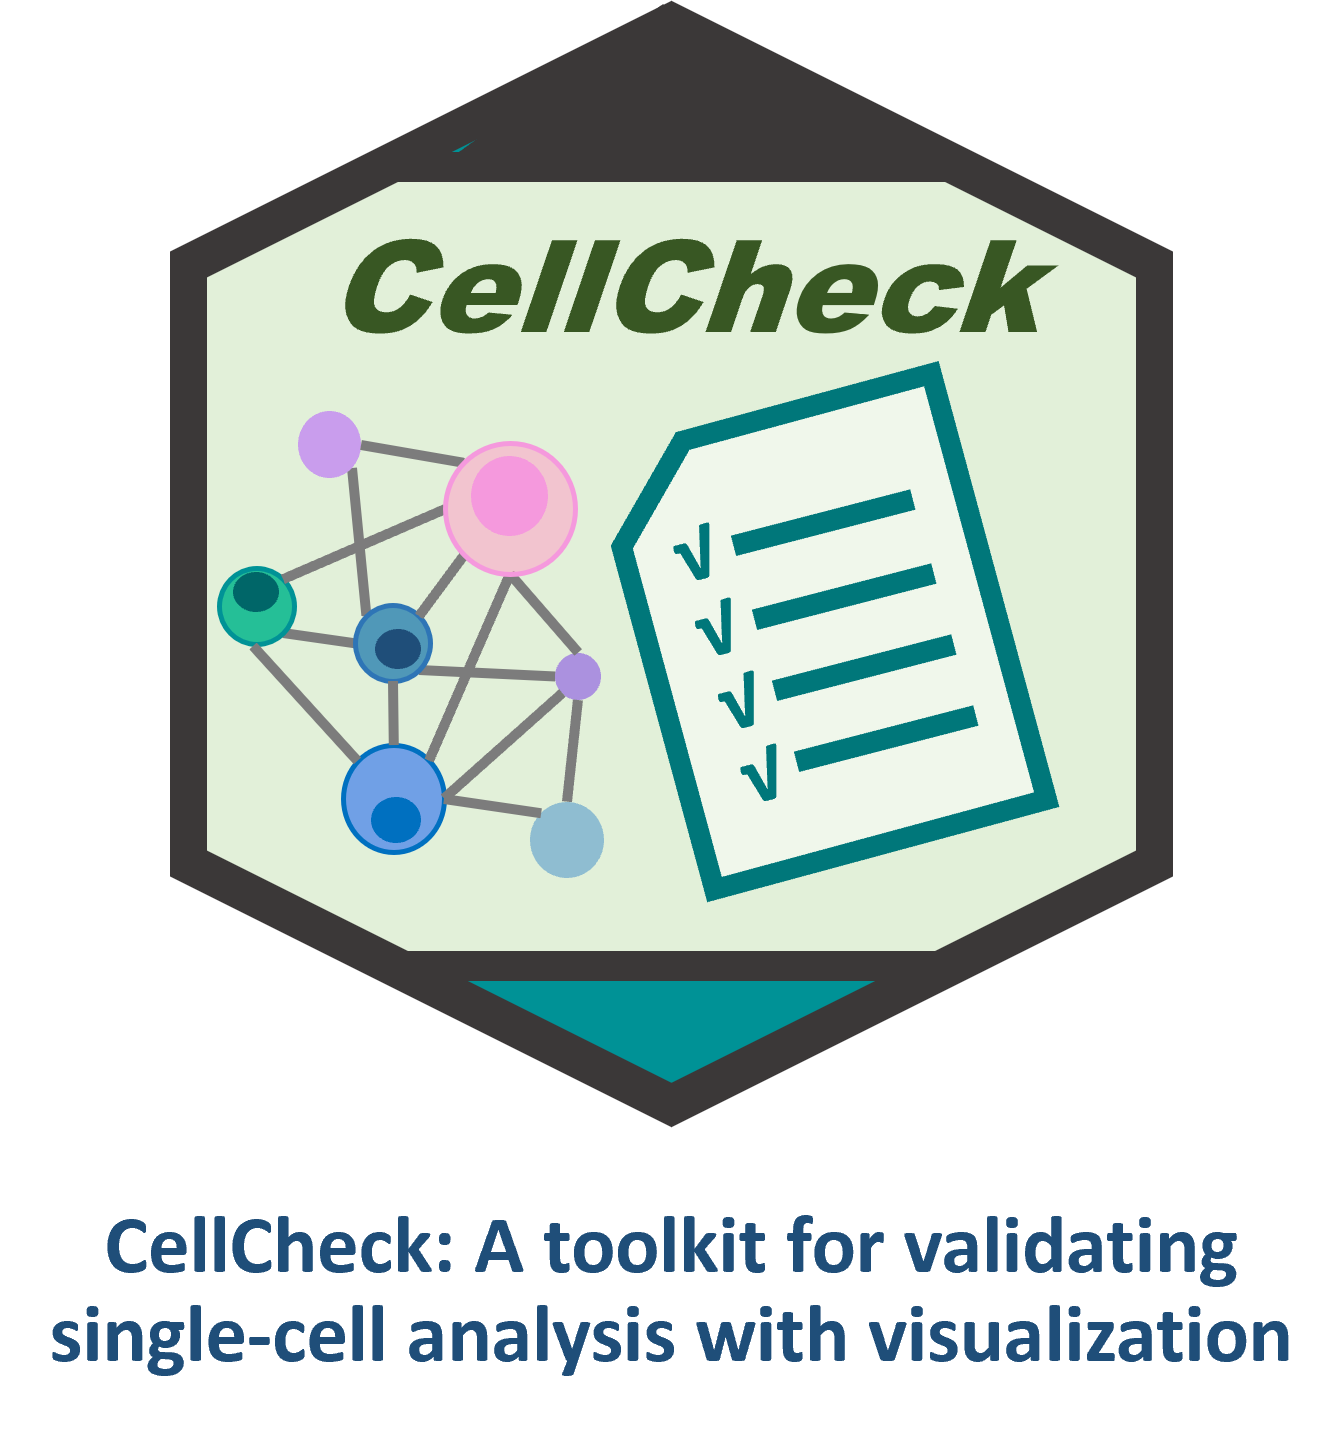
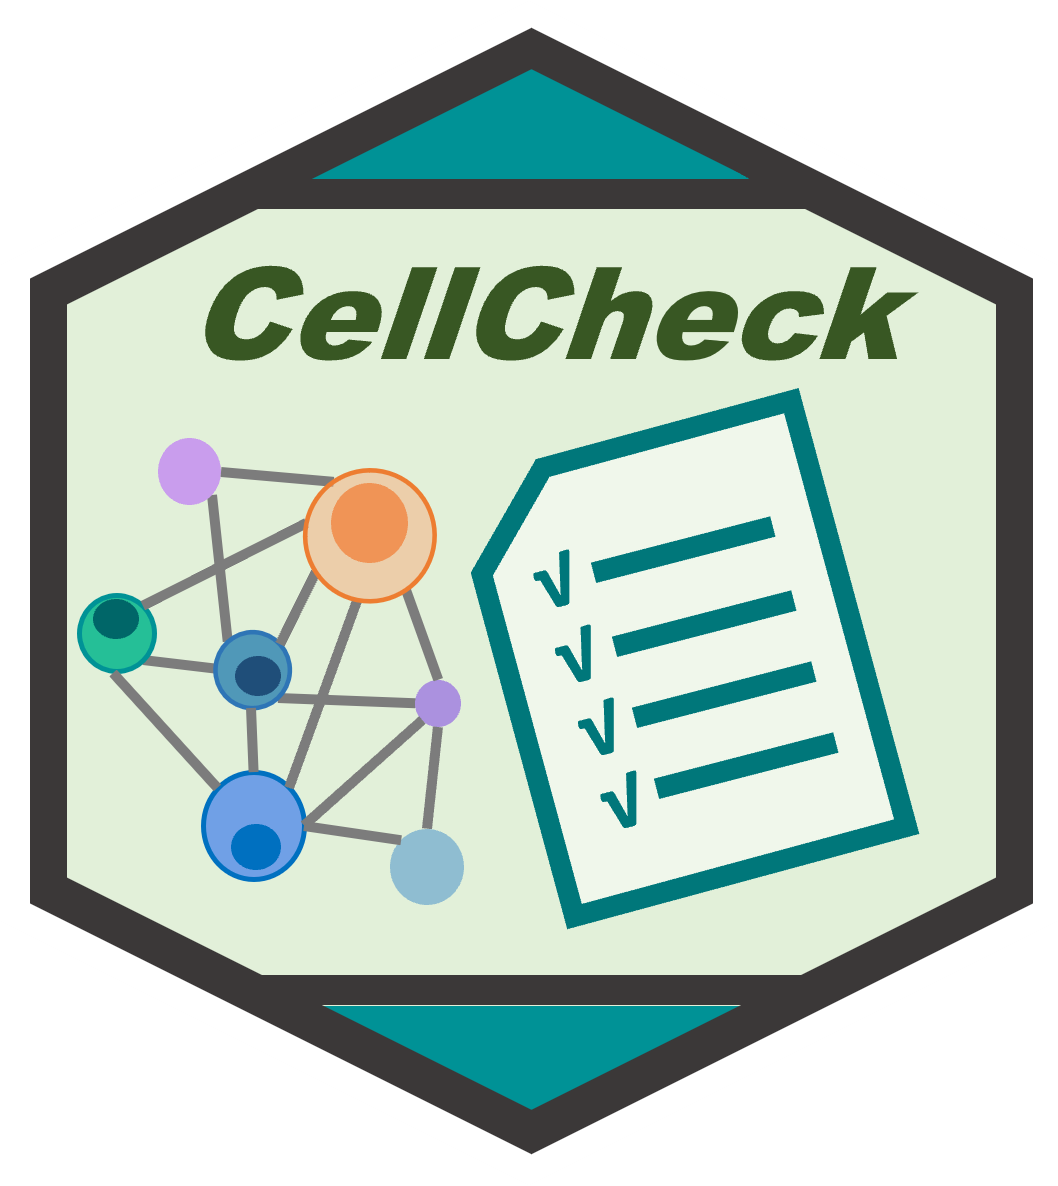
Renew

diff --git a/README.md b/README.md
@@ -1,4 +1,4 @@
-# CellCheck <img src="Figures/CellCheck2.png" align="right" width="120" />
+# CellCheck <img src="Figures/CellCheck.png" align="right" width="120" />
 ## A toolkit for validating single-cell analysis with visualization
 
 ## Overview
